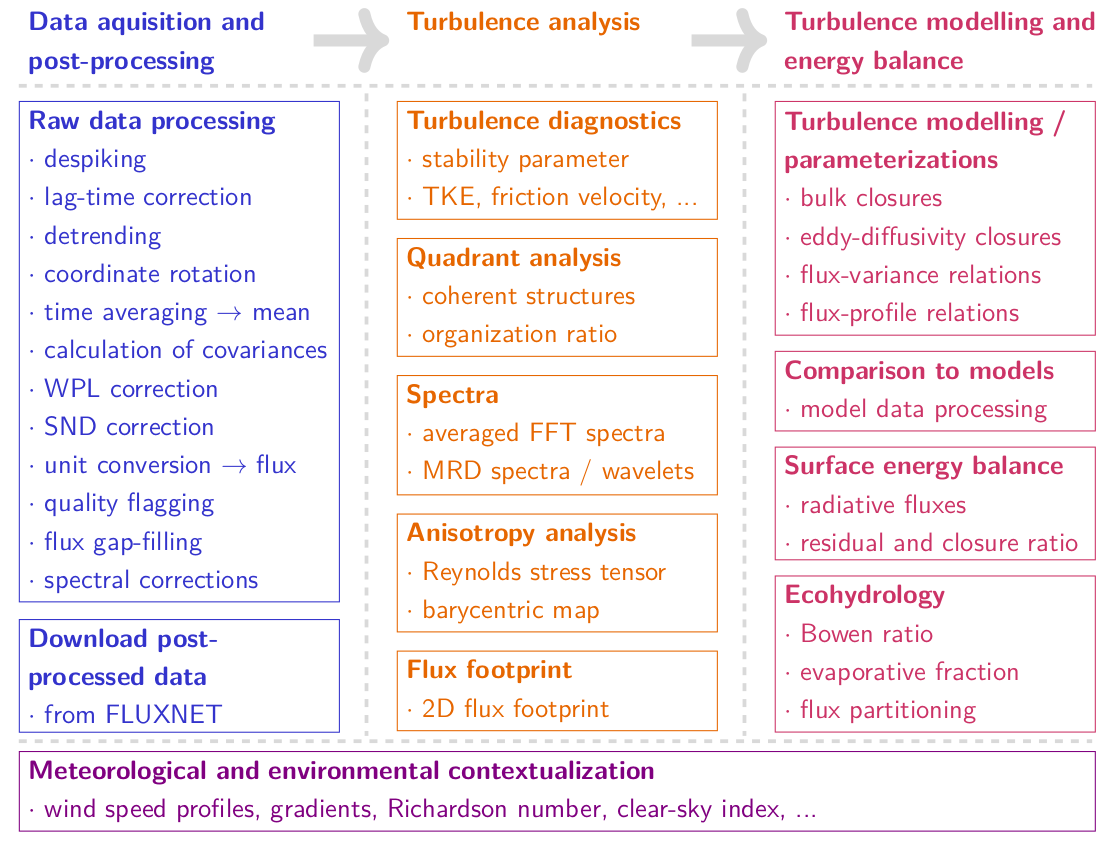
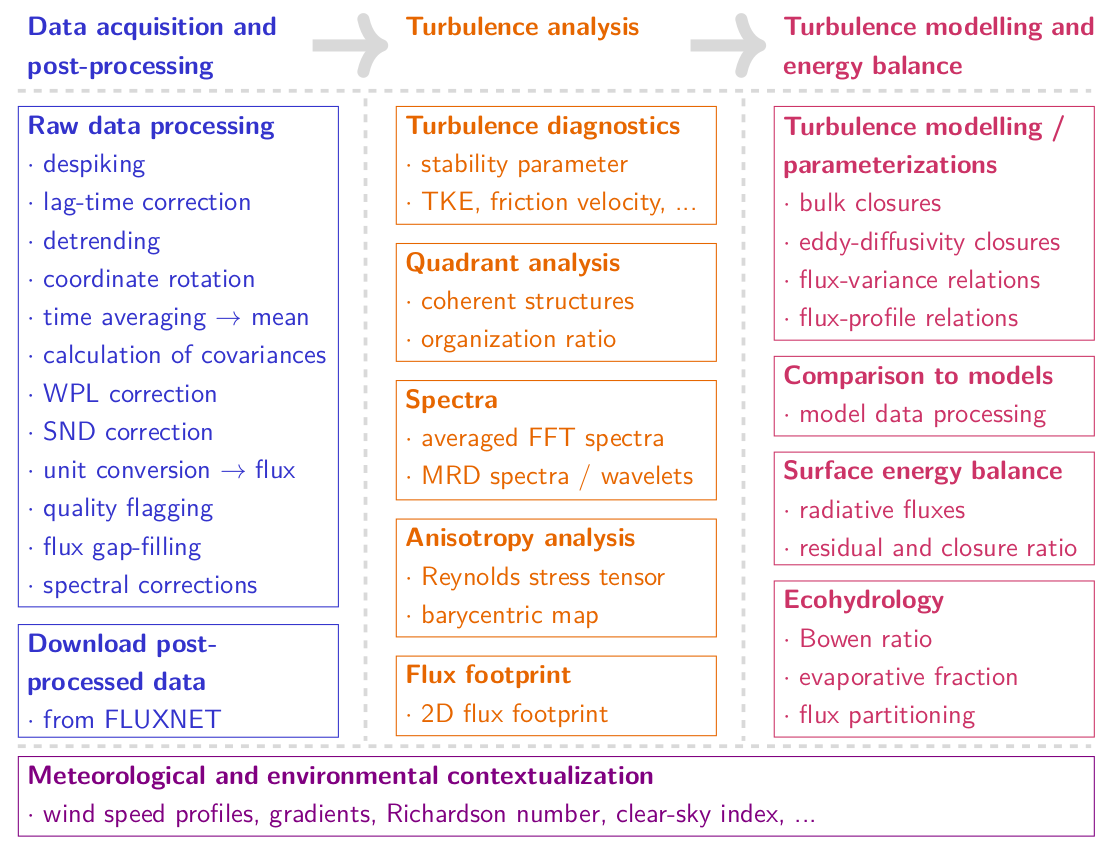
updated schematic

Changed region(s): [[0.0, 0.0, 1.0, 0.9846], [0.2759, 0.0, 0.5825, 0.0615]]

diff --git a/figures/schema/schema.tex b/figures/schema/schema.tex
@@ -84,7 +84,7 @@ bottom=2cm,
 			\small
 			\fontfamily{lmss}\selectfont
 			\begin{tikzpicture}
-				\node(data) [text width = 4cm,madrid,anchor=north west] at (0,0) { \textbf{Data aquisition and post-processing}} ;
+				\node(data) [text width = 4cm,madrid,anchor=north west] at (0,0) { \textbf{Data acquisition and post-processing}} ;
 				\node(analysis) [text width = 4cm, orange,anchor=north west] at (5,0) { \textbf{Turbulence analysis} };
 				\node(application) [text width = 4.5cm,darkred,anchor=north west] at (10,0) { \textbf{Turbulence modelling and energy balance} };
 				
